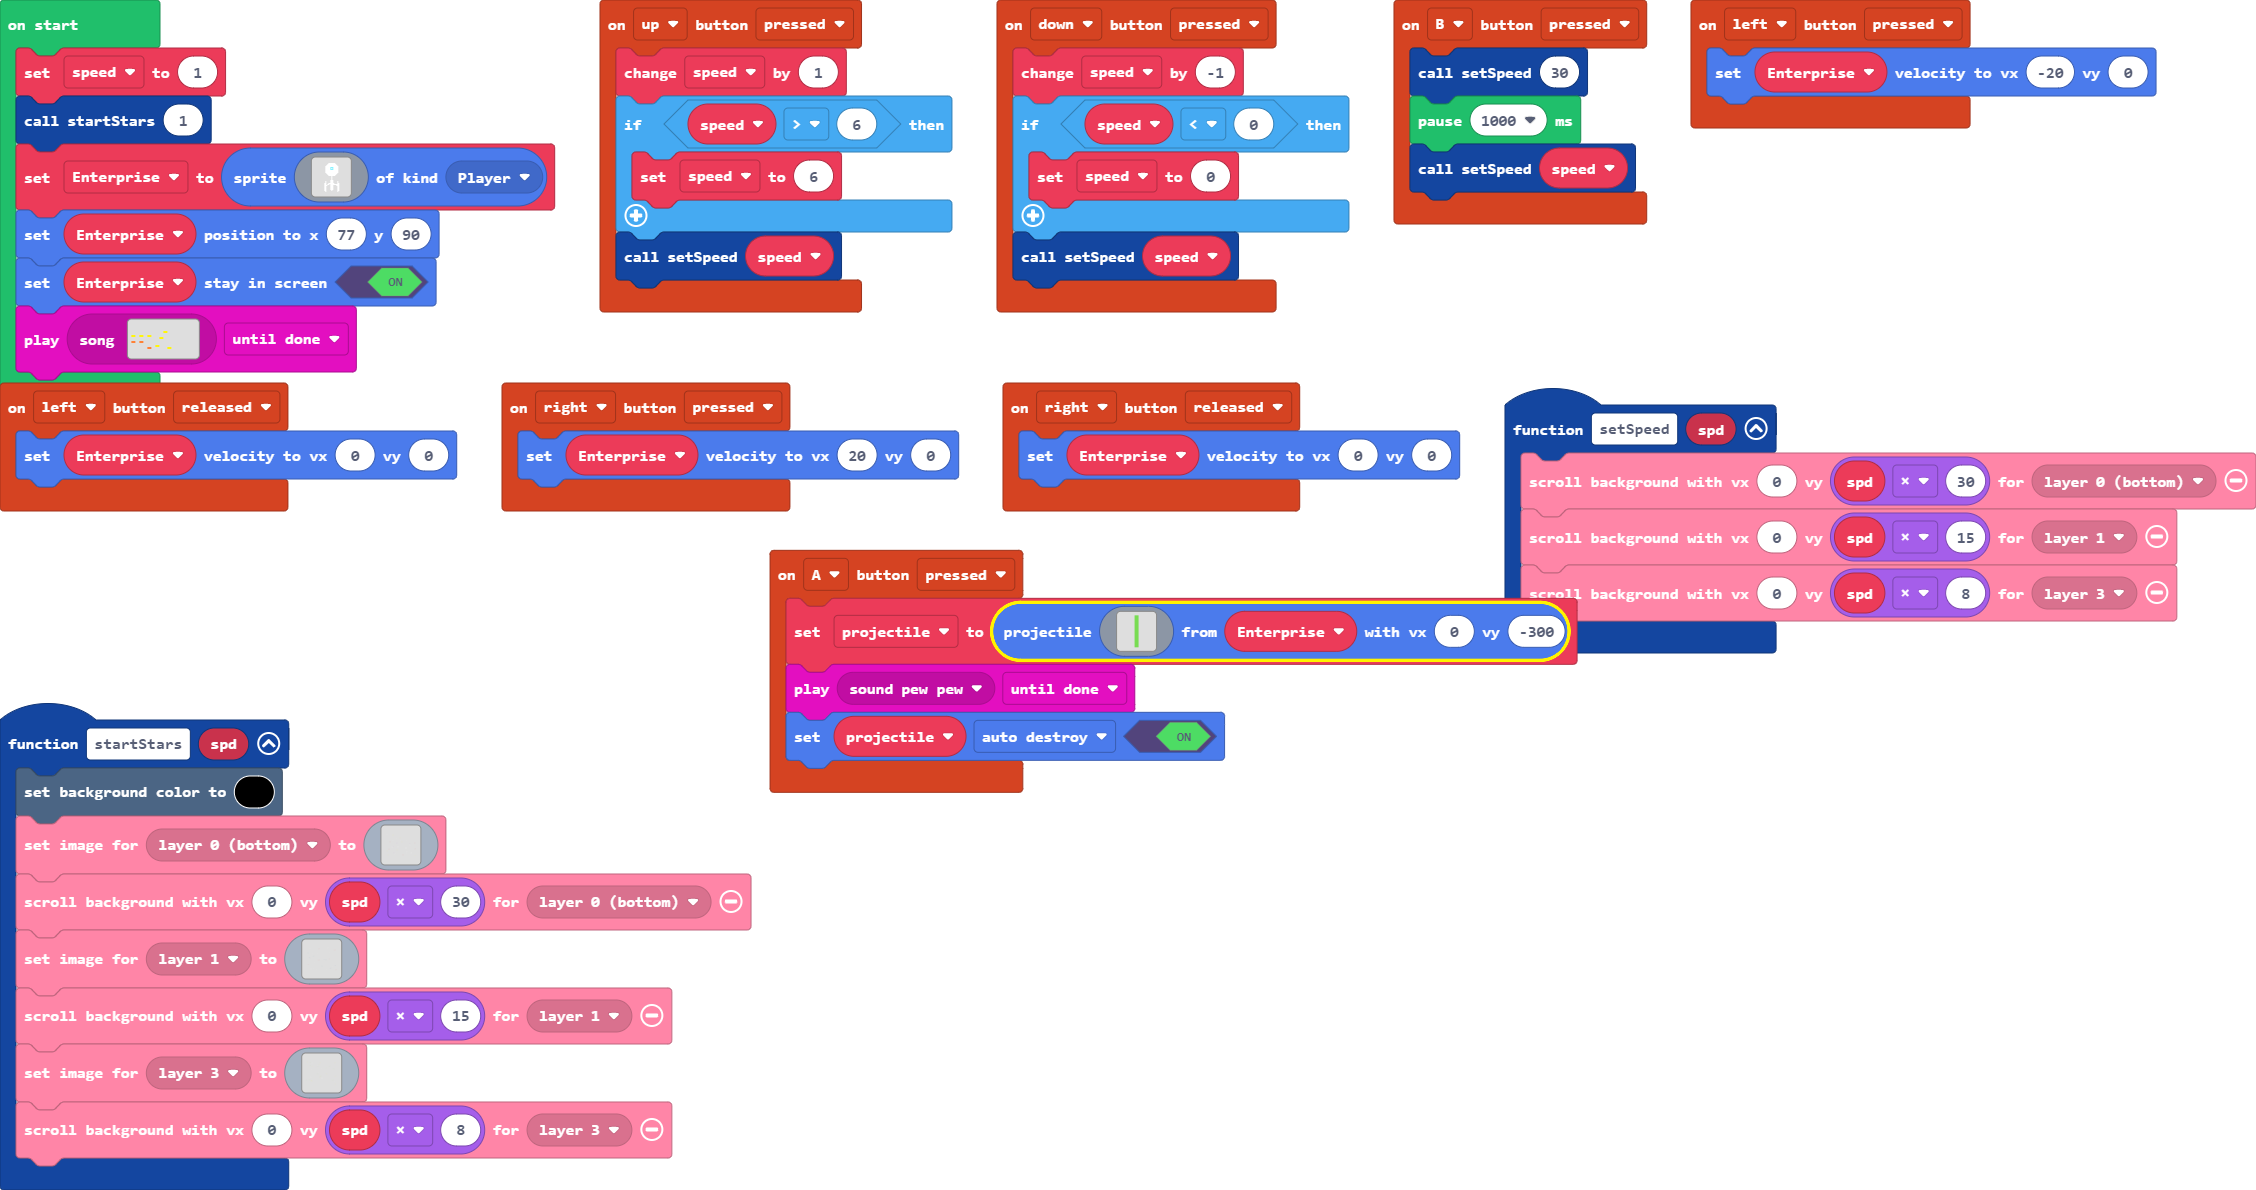
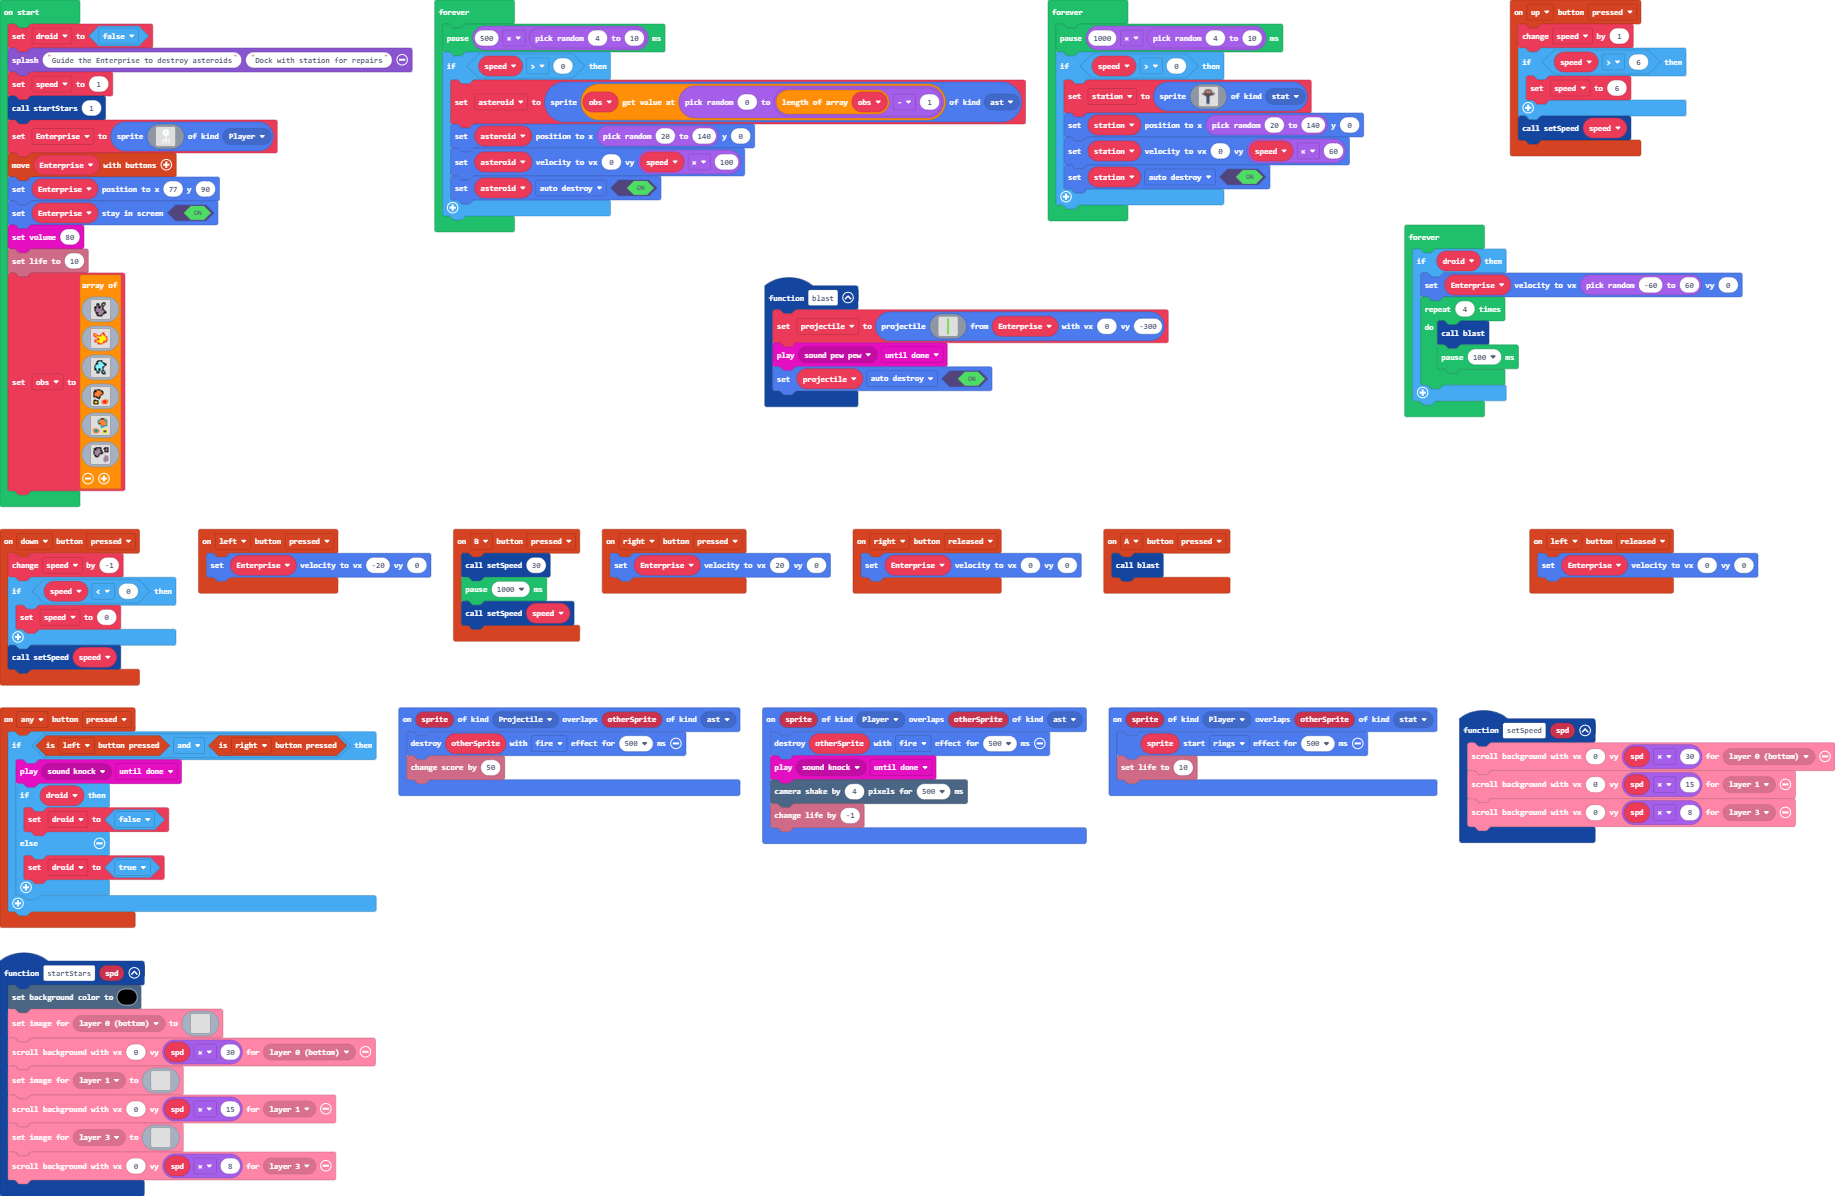
Update pxt.json, main.blocks, main.ts, images.g.jres, images.g.ts, tilemap.g.jres, tilemap.g.ts

diff --git a/images.g.ts b/images.g.ts
@@ -57,6 +57,173 @@ namespace myImages {
 7 7 
 7 7 
 `;
+            case "image3":
+            case "rock1":return img`
+. . . . . . . . . . . . . . . . 
+. . . . . . . . . . f f f . . . 
+. . . . f f f . . f f . f . . . 
+. . . . f b f . . f . . f . . . 
+. . . . f b f . f b f f . . . . 
+. . f f b b f f b b f . . . . . 
+. . f f b b f f b b f . . . . . 
+. . f b b b b b b b f . . . . . 
+. . f b b b b b b b f f . . . . 
+. . f b b b b b b b b b f . . . 
+. . . f b b b b b b b b f f . . 
+. . . f f f b b b b b f f f . . 
+. . . . f b b b b b f f . . . . 
+. . . . f f b b b f . . . . . . 
+. . . . . f f f f f . . . . . . 
+. . . . . . . . . . . . . . . . 
+`;
+            case "image4":
+            case "rock0":return img`
+. . . . . . . . . . . . . . . . 
+. . . . . . . . . . . . . . . . 
+. . . . . . . . . . 2 2 . . . . 
+. 2 2 2 . . . . . 2 2 2 . . . . 
+. 2 5 5 2 . . . 2 5 5 2 2 . . . 
+. 2 2 5 2 2 2 2 2 5 5 5 2 . . . 
+. . 2 2 5 5 5 5 5 5 5 5 5 2 2 . 
+. . . . 2 5 5 5 5 5 5 5 5 5 2 . 
+. . . . . 2 2 5 5 5 5 5 5 5 2 . 
+. . 2 2 2 2 2 5 5 5 5 5 5 5 2 . 
+. . 2 5 5 5 5 5 5 5 5 2 5 2 2 . 
+. . 2 2 2 5 5 5 5 5 5 2 2 2 . . 
+. . . . . 2 2 5 5 5 2 2 . . . . 
+. . . . . 2 2 2 2 2 . . . . . . 
+. . . . . . . . . . . . . . . . 
+. . . . . . . . . . . . . . . . 
+`;
+            case "image5":
+            case "rock2":return img`
+. . . . . . . . . . . . . . . . 
+. . . . . f f f f f . . . . . . 
+. . . . f f 9 9 9 f . . . . . . 
+. . . . f 9 9 9 9 9 f f . . . . 
+. . . f f f 9 9 9 9 9 f f f . . 
+. . . f 9 9 9 9 9 9 9 9 f f . . 
+. . f 9 9 9 9 9 9 9 9 9 f . . . 
+. . f 9 9 9 9 9 9 9 f f . . . . 
+. . f 9 9 9 9 9 9 9 f . . . . . 
+. . f f 9 9 f f 9 9 f . . . . . 
+. . f f 9 9 f f 9 9 f . . . . . 
+. . . . f 9 f . f 9 f f . . . . 
+. . . . f 9 f . . f 9 9 f . . . 
+. . . . f f f . . f f 9 f . . . 
+. . . . . . . . . . f f f . . . 
+. . . . . . . . . . . . . . . . 
+`;
+            case "image6":
+            case "rubbld":return img`
+. . . . . . . . . . . . . . . . 
+. . f . f f f f . . . . . . . . 
+. . f f 4 4 4 4 f f . . . . . . 
+. f f f 4 4 4 4 4 f f . . . . . 
+. f 4 4 4 4 4 4 4 4 f . . . . . 
+. f 4 4 4 4 4 4 4 4 f . . . . . 
+. f 4 4 4 4 4 4 f f . . . . . . 
+. f 4 4 4 4 4 f . . . . . . . . 
+. f f f f 4 4 f . . . . . . . . 
+. . . . f f f f . . . . . . . . 
+. . . . . . f . . . . . . . . . 
+. . f . . . . . . . . 4 4 4 4 . 
+. f f f f f . . . 4 4 2 2 2 4 4 
+. f 5 5 5 f . . . 4 2 2 2 2 4 4 
+. f 5 5 5 f . . . 4 4 2 2 2 4 . 
+. f f f f f . . . . 4 4 4 4 4 . 
+`;
+            case "image7":
+            case "rubbld0":return img`
+. . . . . . . . . . . . . . . . 
+. . . . . . . . f f f f . 6 . . 
+. . . . . . 6 6 4 4 4 4 6 6 . . 
+. . . . . 6 6 4 4 4 4 4 6 6 6 . 
+. . . . . 6 4 4 4 4 4 4 4 4 6 . 
+. . . . . 6 4 4 4 4 4 4 4 4 6 . 
+. . . . . . f f 4 4 4 4 4 4 6 . 
+. . . . . . . . 6 4 4 4 4 4 6 . 
+. . . . . . . . 6 4 4 6 6 6 6 . 
+. . . . . . . . 6 6 6 6 . . . . 
+. . . . . . . . . 6 . . . . . . 
+. 4 4 4 4 . . . . . . . . 5 . . 
+4 4 6 6 6 4 4 . . . 5 5 5 5 5 . 
+4 4 6 6 6 6 4 . . . 5 c c c 5 . 
+. 4 6 6 6 4 4 . . . 5 c c c 5 . 
+. 4 4 4 4 4 . . . . 5 5 5 5 5 . 
+`;
+            case "image8":
+            case "rubbld1":return img`
+. . . . . . . . . . . . . . . . 
+. . . f f f f f f . . . f f f f 
+. f f f b b b b f . . f f b b f 
+. . f f b b b b f . . . f b b f 
+. f b b b b b b f f . . f b b f 
+. f b b b b b b b f . . f f f f 
+. f b b b b b b b f f . . . . . 
+. f b b b b b f f f . . . . . . 
+. . f b b b f . . . . . . . . . 
+. . f f b b f . . . . . b b b . 
+. . . f f f . . . . . . b b b b 
+. . . . . . . . . . . b b b b b 
+. . . . . . . . . . . b b b b b 
+. . . . . . . . . . . b b b b b 
+. . . . . . . . . . . b b b b b 
+. . . . . . . . . . . . b b . . 
+`;
+            case "image9":
+            case "starbase":return img`
+..................................................
+..................................................
+..................................................
+.................fffffffffffffff..................
+.................fffffffffffffff..................
+...............ffeeeeeeeeeeeeeeeff................
+.............ffeeeeeeeeeeeee11eeeeff..............
+.............ffeeeeeeeeeeeee11eeeeff..............
+.............ffeeee11eeeeeeeeeeeeeff..............
+.............ffeeee11eeeeeeeeeeeeeff..............
+.............ffeeeeeeeeeee11ee11eeff..............
+.............ffeeee11eeeeeeeeeeeeeff..............
+.............ffeeee11eeeeeeeeeeeeeff..............
+.............ffeeeeeeee111eeeeeeeeff..............
+.......ffff..ffffffeeeeeeeeeee11eeff..ffffff......
+.......ffff..ffffffeeeeeeeeeee11eeff..ffffff......
+.....ffeeeeffffeefffffffffffffffffffffeeeeff......
+.....ffeeeeffffeefffffffffffffffffffffeeeeff......
+.......ffffffeeffeeeeeeeeeeeeeeeffeeeeeeff........
+...........fffffffffffffffffffffffffffff..........
+...........fffffffffffffffffffffffffffff..........
+...............ffeeeeeeeeeffffff..................
+...............ffeeeeeeeeeffffff..................
+.................fffffffff........................
+...................fffffffff......................
+...................fffffffff......................
+...................ff88888ff......................
+...................ff88888ff......................
+...................ff88888ff......................
+...................ff88888ff......................
+...................ff88888ff......................
+...................ff88888ff......................
+...................ff88888ff......................
+...................ff88888ff......................
+...................ff88888ff......................
+...................ff88888ff......................
+...................ff88888ff......................
+...................ff88888ff......................
+...................ff88888ff......................
+...................ff88888ff......................
+...................ff88888ff......................
+...................ff88888ff......................
+...................ff88888ff......................
+...................ff88888ff......................
+...................ff88888ff......................
+...................ff88888ff......................
+...................ff88888ff......................
+...................fffffffff......................
+..................................................
+..................................................
+`;
         }
         return null;
     })
@@ -71,7 +238,7 @@ namespace myImages {
     helpers._registerFactory("song", function(name: string) {
         switch(helpers.stringTrim(name)) {
             case "$4BE~x=!^ljGb{S-t":
[2 lines of base64/hex data omitted]
         }
         return null;
     })

diff --git a/main.ts b/main.ts
@@ -1,3 +1,7 @@
+namespace SpriteKind {
+    export const ast = SpriteKind.create()
+    export const stat = SpriteKind.create()
+}
 controller.up.onEvent(ControllerButtonEvent.Pressed, function () {
     speed += 1
     if (speed > 6) {
@@ -10,13 +14,25 @@ controller.B.onEvent(ControllerButtonEvent.Pressed, function () {
     pause(1000)
     setSpeed(speed)
 })
+controller.anyButton.onEvent(ControllerButtonEvent.Pressed, function () {
+    if (controller.left.isPressed() && controller.right.isPressed()) {
+        music.play(music.melodyPlayable(music.knock), music.PlaybackMode.UntilDone)
+        if (droid) {
+            droid = false
+        } else {
+            droid = true
+        }
+    }
+})
 controller.A.onEvent(ControllerButtonEvent.Pressed, function () {
-    projectile = sprites.createProjectileFromSprite(assets.image`zap`, Enterprise, 0, -300)
-    music.play(music.melodyPlayable(music.pewPew), music.PlaybackMode.UntilDone)
-    projectile.setFlag(SpriteFlag.AutoDestroy, true)
+    blast()
 })
 controller.left.onEvent(ControllerButtonEvent.Pressed, function () {
     Enterprise.setVelocity(-20, 0)
+})
+sprites.onOverlap(SpriteKind.Player, SpriteKind.stat, function (sprite, otherSprite) {
+    sprite.startEffect(effects.rings, 500)
+    info.setLife(10)
 })
 controller.right.onEvent(ControllerButtonEvent.Released, function () {
     Enterprise.setVelocity(0, 0)
@@ -396,6 +412,10 @@ function startStars (spd: number) {
         `)
     scroller.scrollBackgroundWithSpeed(0, spd * 8, scroller.BackgroundLayer.Layer3)
 }
+sprites.onOverlap(SpriteKind.Projectile, SpriteKind.ast, function (sprite, otherSprite) {
+    sprites.destroy(otherSprite, effects.fire, 500)
+    info.changeScoreBy(50)
+})
 controller.right.onEvent(ControllerButtonEvent.Pressed, function () {
     Enterprise.setVelocity(20, 0)
 })
@@ -411,12 +431,65 @@ controller.down.onEvent(ControllerButtonEvent.Pressed, function () {
     }
     setSpeed(speed)
 })
+function blast () {
+    projectile = sprites.createProjectileFromSprite(assets.image`zap`, Enterprise, 0, -300)
+    music.play(music.melodyPlayable(music.pewPew), music.PlaybackMode.UntilDone)
+    projectile.setFlag(SpriteFlag.AutoDestroy, true)
+}
+sprites.onOverlap(SpriteKind.Player, SpriteKind.ast, function (sprite, otherSprite) {
+    sprites.destroy(otherSprite, effects.fire, 500)
+    music.play(music.melodyPlayable(music.knock), music.PlaybackMode.UntilDone)
+    scene.cameraShake(4, 500)
+    info.changeLifeBy(-1)
+})
+let station: Sprite = null
+let asteroid: Sprite = null
 let projectile: Sprite = null
 let Enterprise: Sprite = null
 let speed = 0
+let droid = false
+droid = false
+game.splash("Guide the Enterprise to destroy asteroids", "Dock with station for repairs")
 speed = 1
 startStars(1)
 Enterprise = sprites.create(assets.image`Enterprise`, SpriteKind.Player)
+controller.moveSprite(Enterprise)
 Enterprise.setPosition(77, 90)
 Enterprise.setStayInScreen(true)
-music.play(music.createSong(assets.song`test`), music.PlaybackMode.UntilDone)
+music.setVolume(80)
+info.setLife(10)
+let obs = [
+assets.image`rock1`,
+assets.image`rock0`,
+assets.image`rock2`,
+assets.image`rubbld`,
+assets.image`rubbld0`,
+assets.image`rubbld1`
+]
+forever(function () {
+    pause(500 * randint(4, 10))
+    if (speed > 0) {
+        asteroid = sprites.create(obs[randint(0, obs.length - 1)], SpriteKind.ast)
+        asteroid.setPosition(randint(20, 140), 0)
+        asteroid.setVelocity(0, speed * 100)
+        asteroid.setFlag(SpriteFlag.AutoDestroy, true)
+    }
+})
+forever(function () {
+    pause(1000 * randint(4, 10))
+    if (speed > 0) {
+        station = sprites.create(assets.image`starbase`, SpriteKind.stat)
+        station.setPosition(randint(20, 140), 0)
+        station.setVelocity(0, speed * 60)
+        station.setFlag(SpriteFlag.AutoDestroy, true)
+    }
+})
+forever(function () {
+    if (droid) {
+        Enterprise.setVelocity(randint(-60, 60), 0)
+        for (let index = 0; index < 4; index++) {
+            blast()
+            pause(100)
+        }
+    }
+})

diff --git a/tilemap.g.ts b/tilemap.g.ts
@@ -1,0 +1,14 @@
+// Auto-generated code. Do not edit.
+namespace myTiles {
+    //% fixedInstance jres blockIdentity=images._tile
+    export const transparency16 = image.ofBuffer(hex``);
+
+    helpers._registerFactory("tile", function(name: string) {
+        switch(helpers.stringTrim(name)) {
+            case "transparency16":return transparency16;
+        }
+        return null;
+    })
+
+}
+// Auto-generated code. Do not edit.
